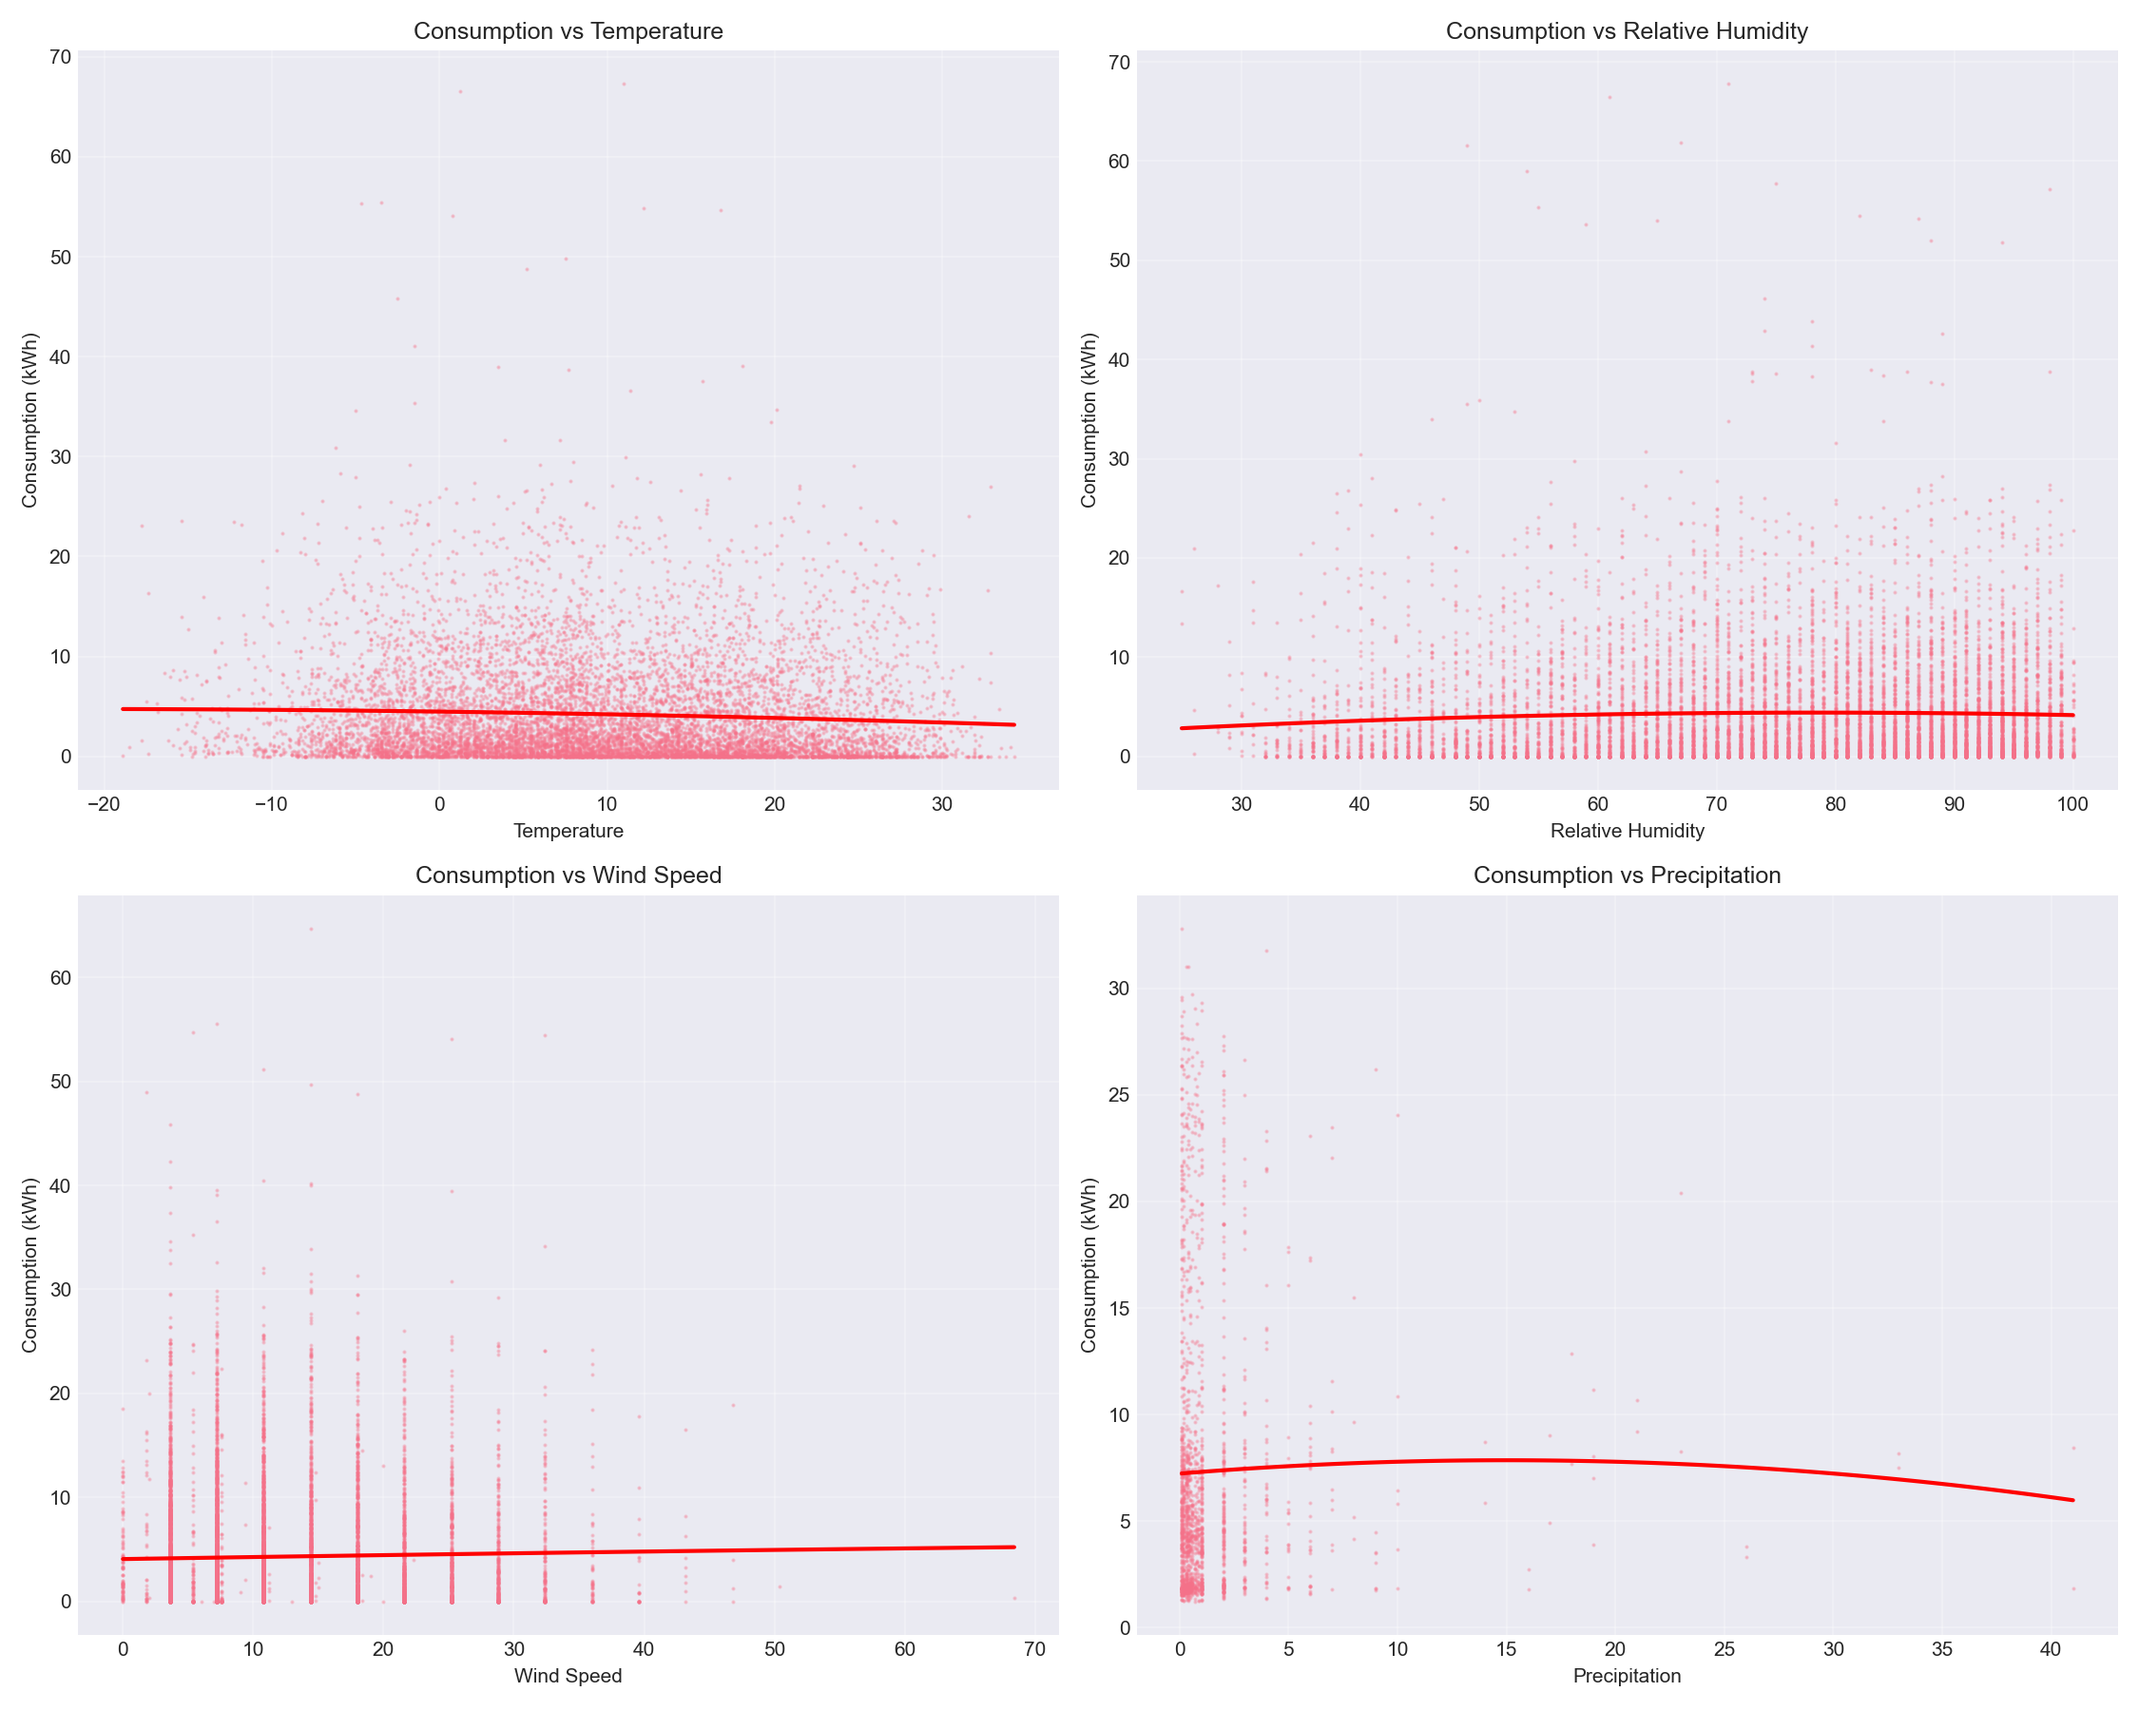
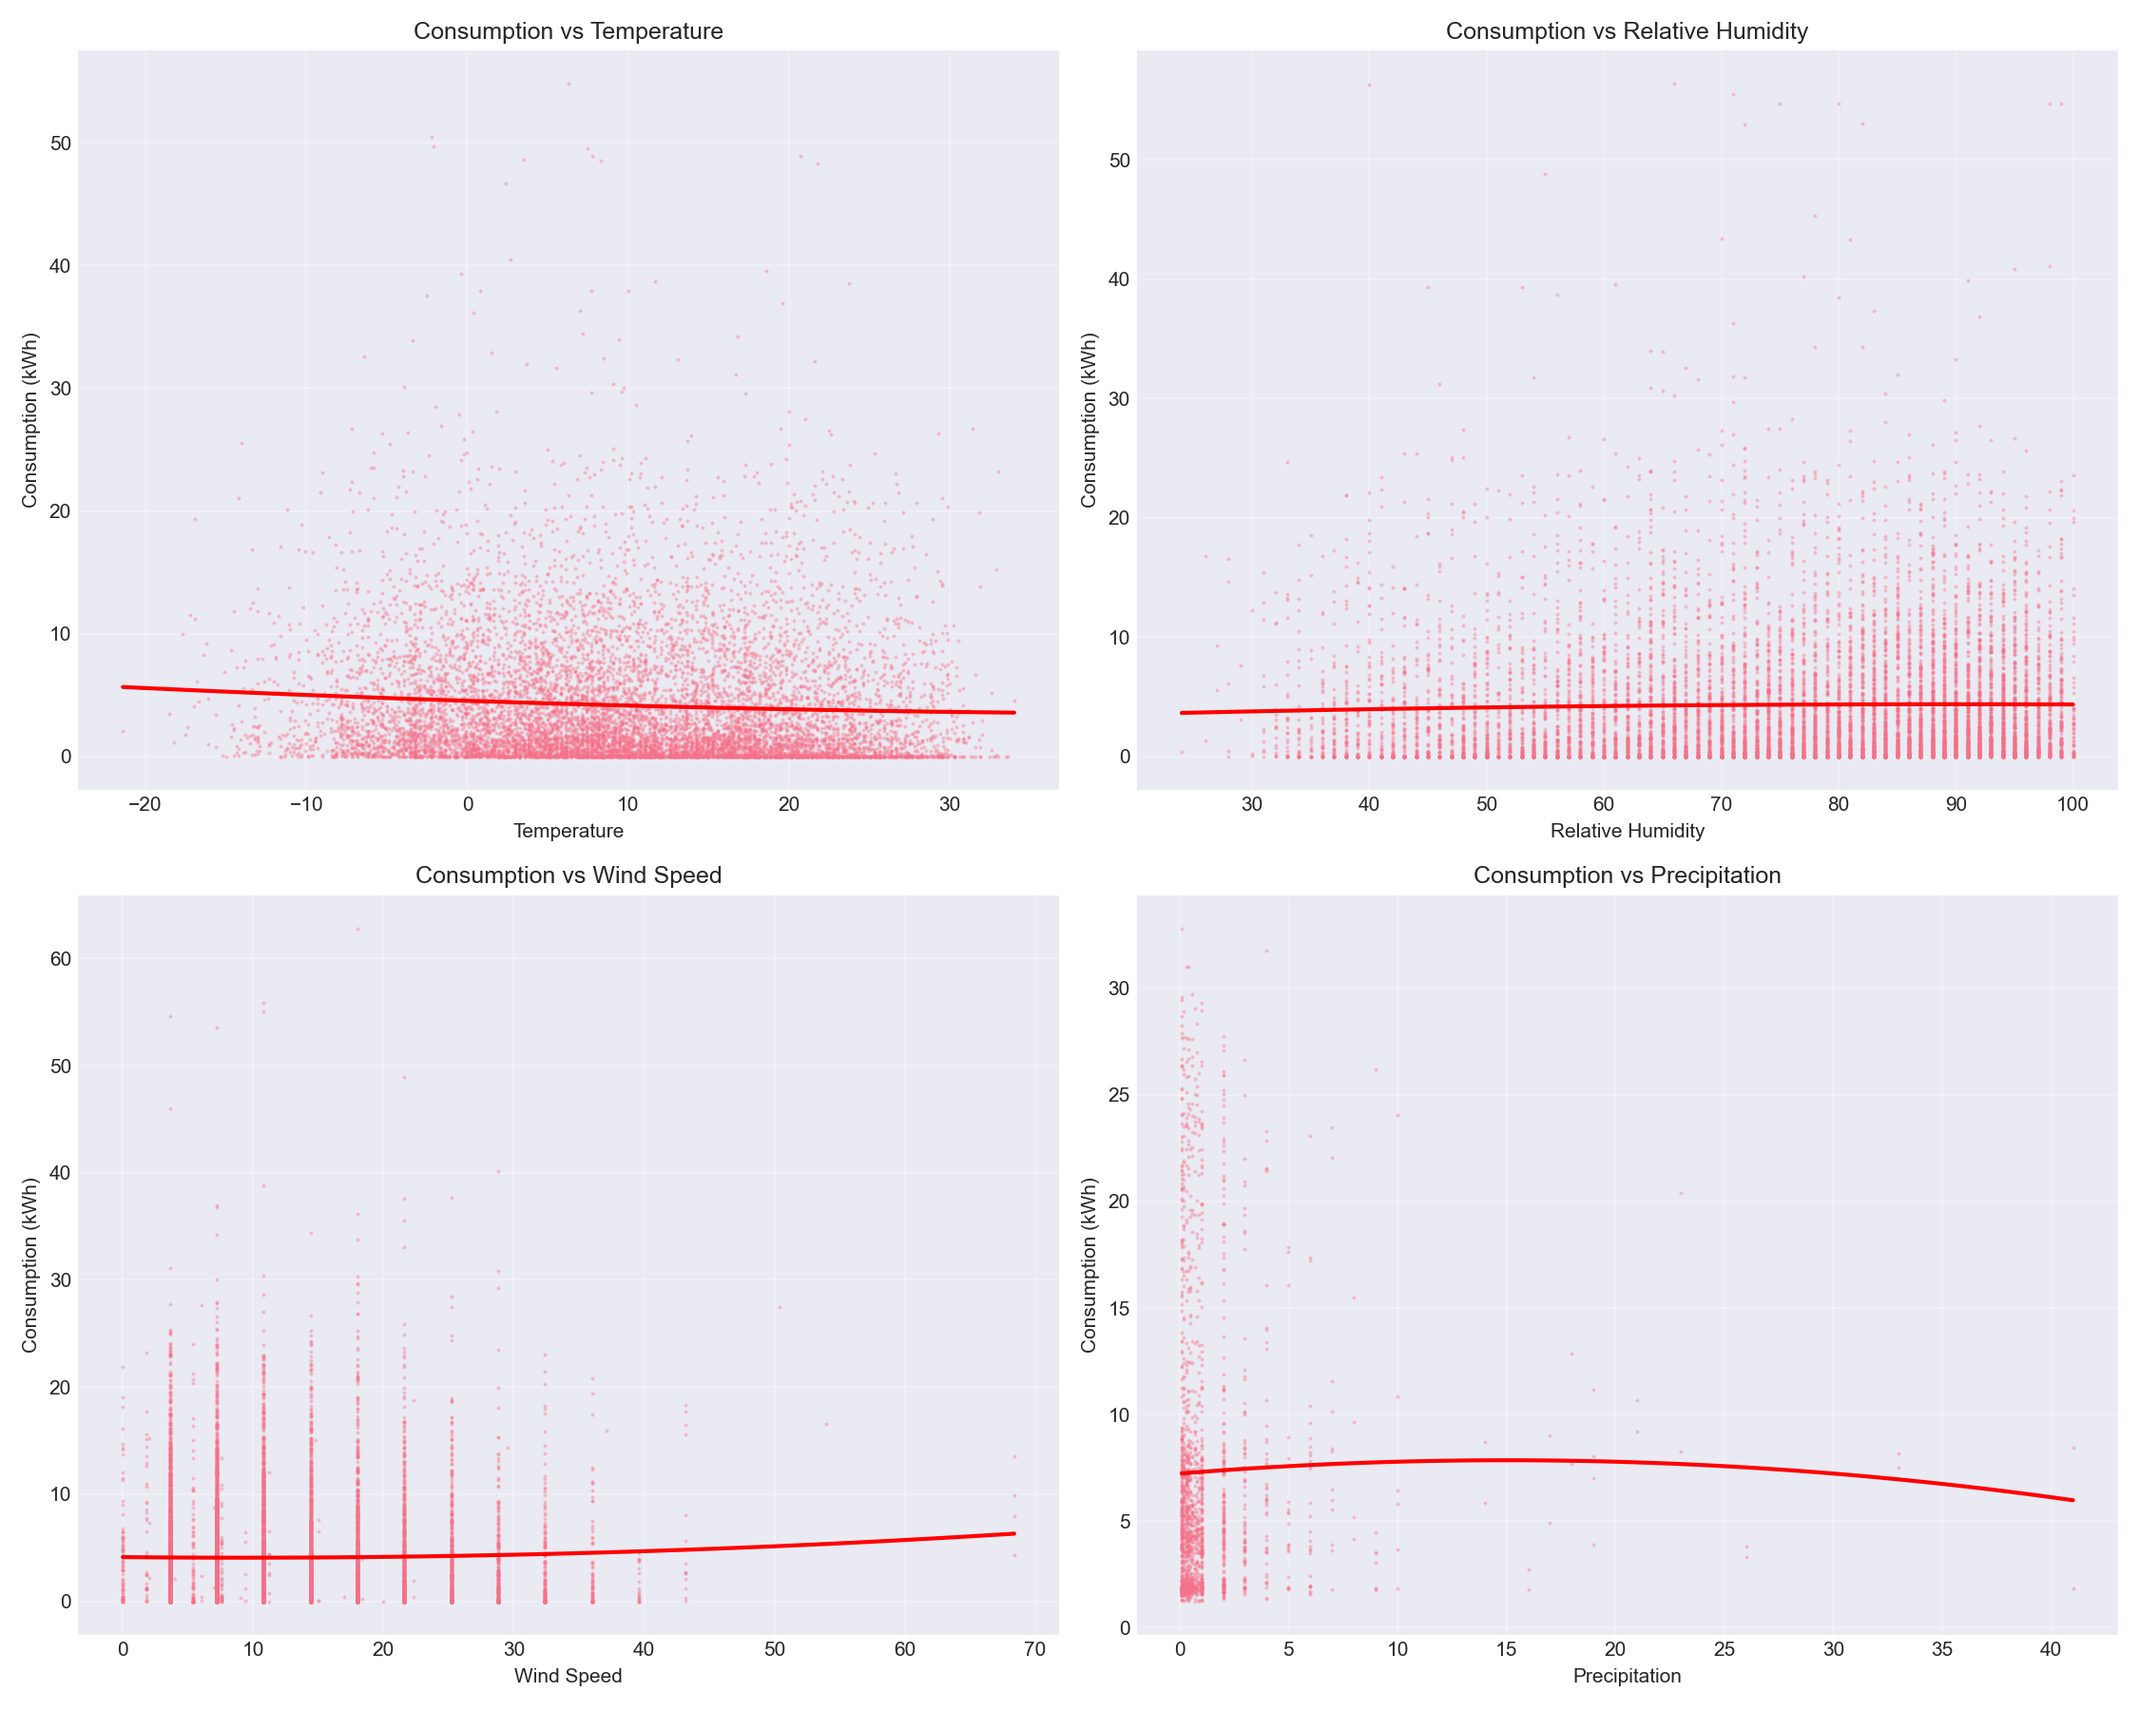
update file path

diff --git a/helperfiles/eda_analysis.py b/helperfiles/eda_analysis.py
@@ -10,8 +10,8 @@ warnings.filterwarnings('ignore')
 
 # Configuration
 DATA_FILE = Path("merged_data_hourly_with_weather.csv")
-PLOTS_DIR = Path("plots")
-PLOTS_DIR.mkdir(exist_ok=True)
+PLOTS_DIR = Path("findings/plots")
+PLOTS_DIR.mkdir(parents=True, exist_ok=True)
 
 # Set style for better-looking plots
 plt.style.use('seaborn-v0_8-darkgrid')
